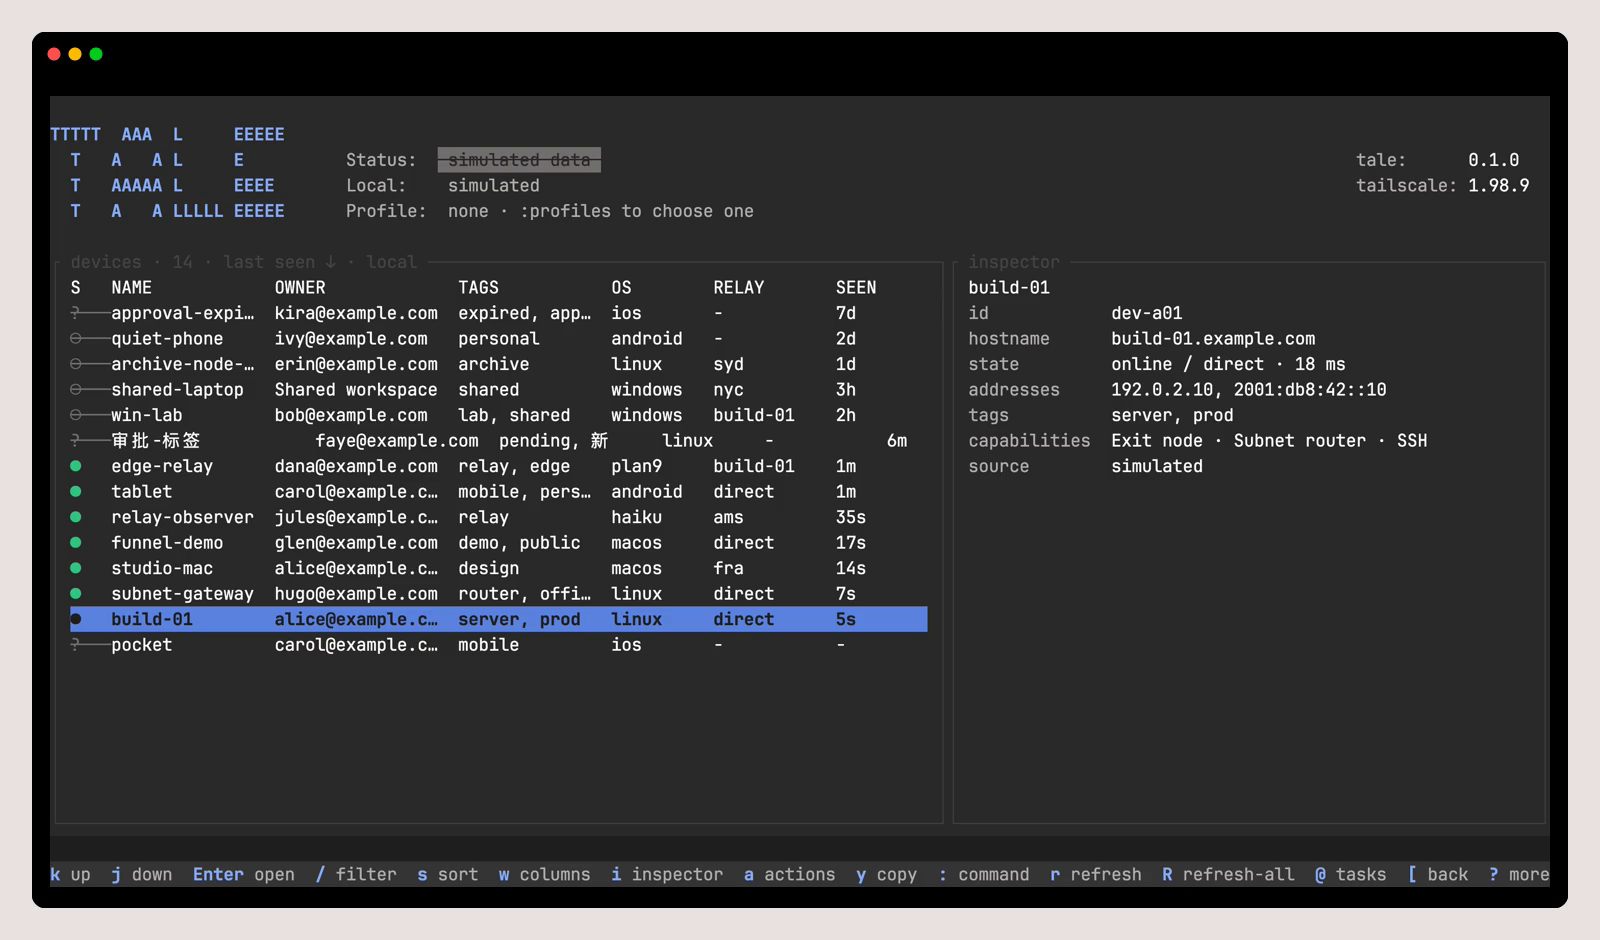
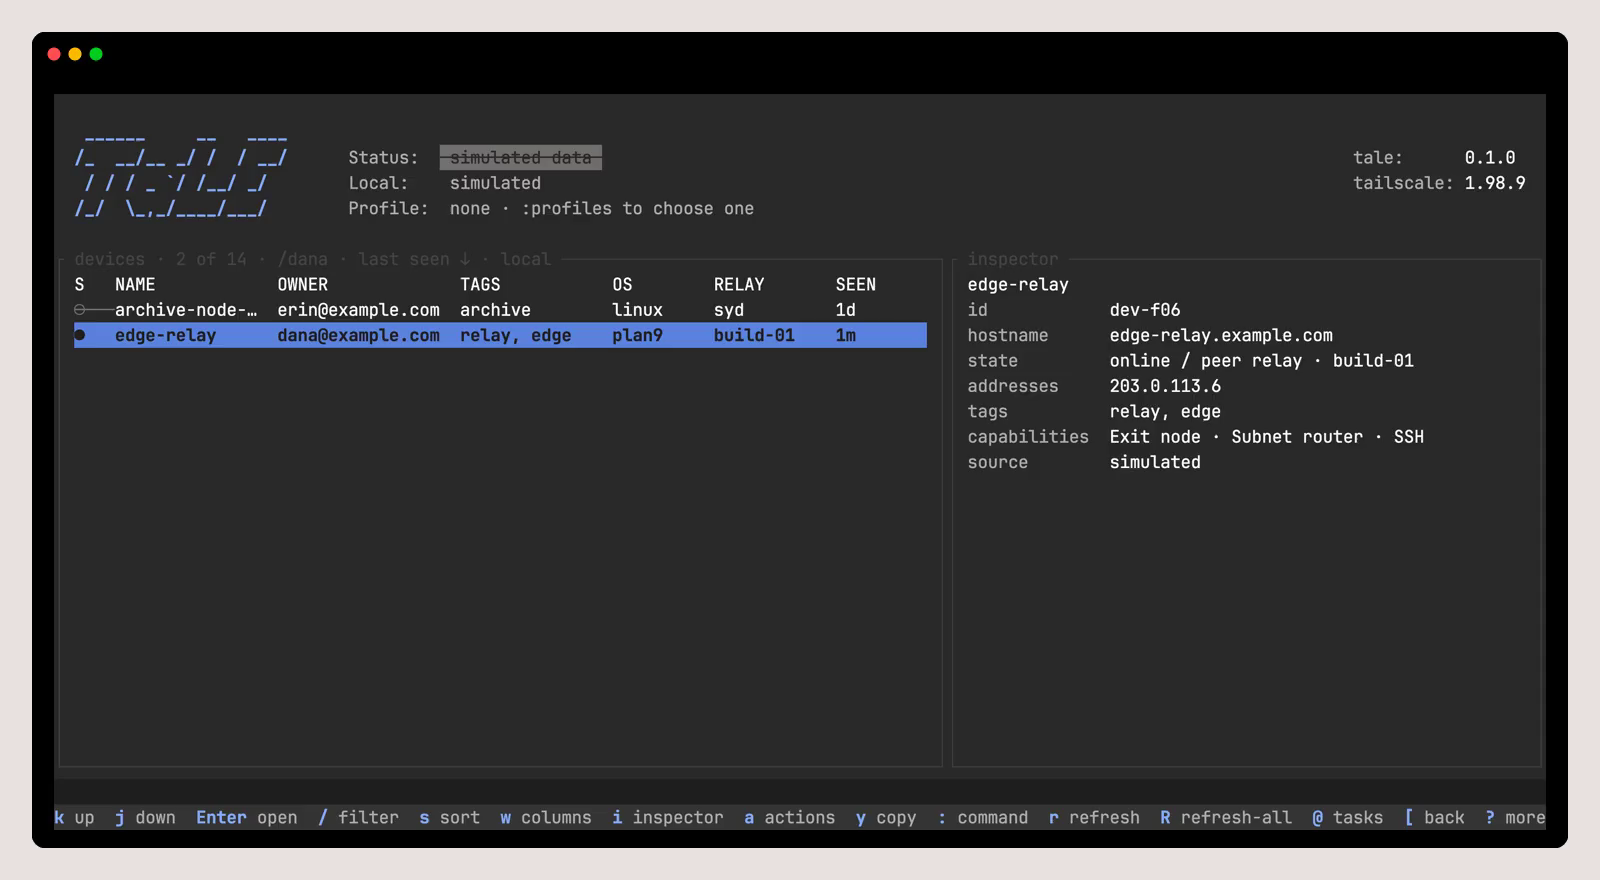
docs: script readme screenshot capture

diff --git a/README.md b/README.md
@@ -10,7 +10,7 @@ platform or client combination as supported.
 
 <p align="center">
   <a href="docs/assets/tale-devices.png">
-    <img src="docs/assets/tale-devices.png" alt="Tale device inventory with the build-01 inspector open" width="100%">
+    <img src="docs/assets/tale-devices.png" alt="Tale device inventory with the edge-relay inspector open" width="100%">
   </a>
 </p>
 
@@ -32,6 +32,19 @@ platform or client combination as supported.
     </td>
   </tr>
 </table>
+
+<details>
+<summary>Regenerate these screenshots</summary>
+
+```sh
+./scripts/capture-readme-screenshots.sh
+```
+
+The script builds Tale, drives the deterministic mock TUI, and replaces all
+three PNGs. It uses installed `vhs` and `ffmpeg` commands or obtains the pinned
+capture toolchain through Nix.
+
+</details>
 
 ## Project documents
 
